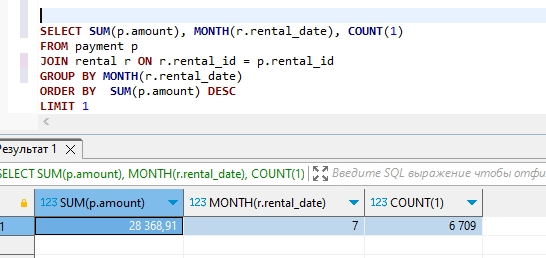
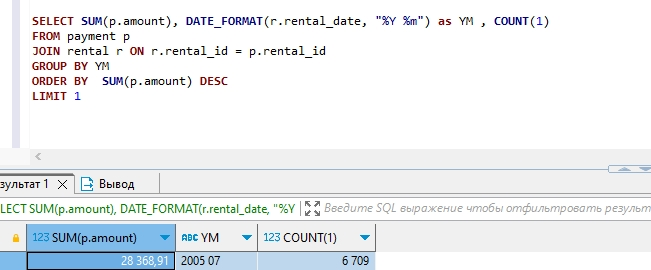
commit2

Changed region(s): [[0.0, 0.4651, 1.0, 1.0], [0.0, 0.0, 0.8407, 0.4341]]

diff --git a/README.md b/README.md
@@ -43,10 +43,10 @@ WHERE length  > ( SELECT AVG(length) FROM film)
 
 ### Решение 3
 ```sql
-SELECT SUM(p.amount), MONTH(r.rental_date), COUNT(1)
+SELECT SUM(p.amount), DATE_FORMAT(r.rental_date, "%Y %m") as YM , COUNT(1)
 FROM payment p
 JOIN rental r ON r.rental_id = p.rental_id 
-GROUP BY MONTH(r.rental_date)
+GROUP BY YM 
 ORDER BY  SUM(p.amount) DESC 
 LIMIT 1
 
